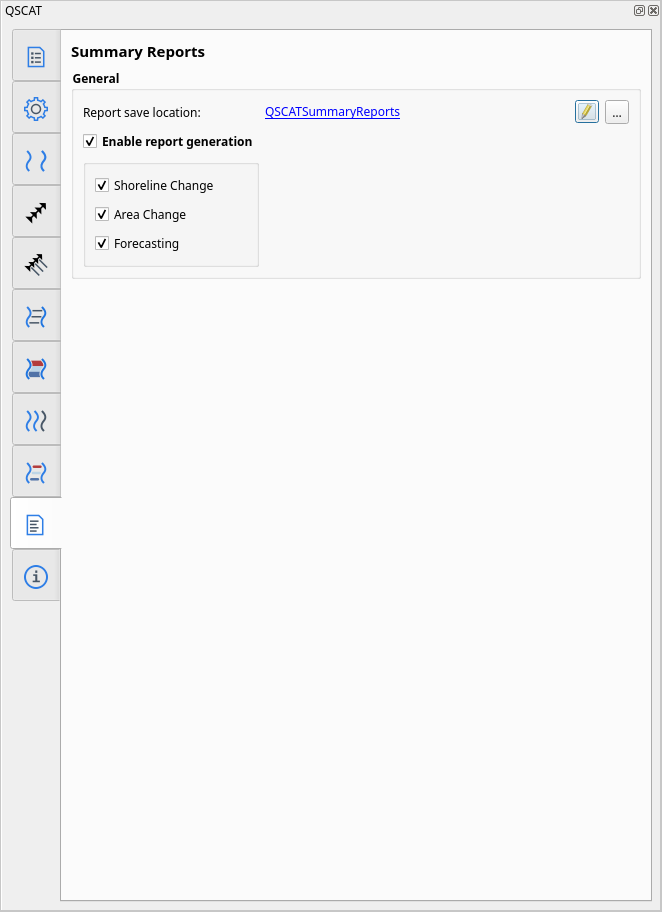
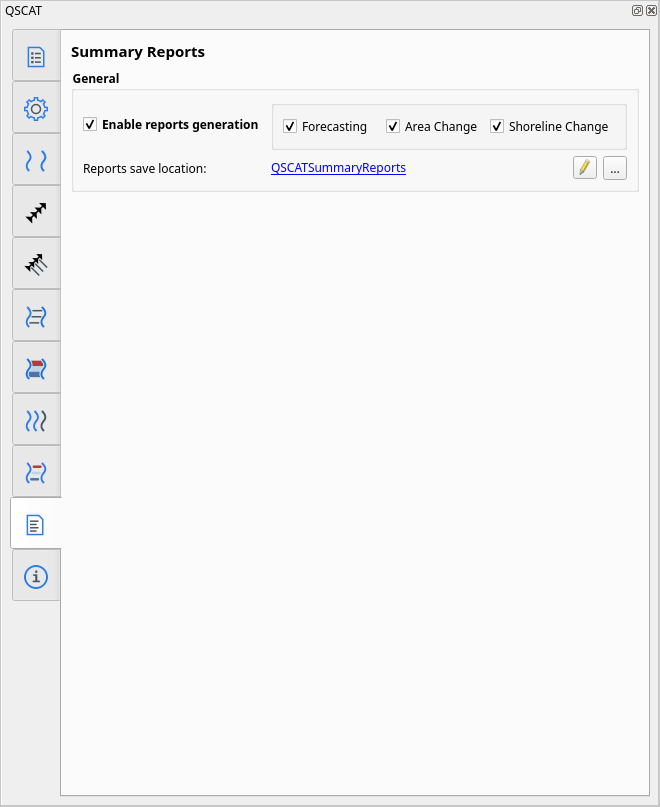
refactor(docs): improvements - format, naming, content

Changed region(s): [[0.0, 0.0, 0.9394, 0.7435], [0.9394, 0.0, 1.0, 0.031]]

diff --git a/docs/source/manual/tabs/summary_reports.rst b/docs/source/manual/tabs/summary_reports.rst
@@ -10,7 +10,9 @@ Tab: Summary Reports
       :local:
       :depth: 2
 
-.. _figure_tab_summary_reports:
+The :guilabel:`Summary Reports Tab` allows the user to configure the save location of the summary reports and enable or disable the generation of summary reports. The summary reports are text files that contain the base information and the summary of results of the shoreline change, area change, and forecasting. The summary reports are saved in the folder specified by the user.
+
+.. _figure_tab_summary_report:
 
 .. figure:: /img/summary_reports/summary-reports-tab.png
    :align: center
@@ -20,5 +22,150 @@ Tab: Summary Reports
 General
 =======
 
+Reports save location
+---------------------
 
--
+Allows users to choose the folder in which to save the summary reports. Defaults to ``QSCATSummaryReports`` under user home directory. Additionally, each results type (shoreline change, area change, and forecasting) will be saved inside another folder within the specified folder. The filename of the report will be in the format ``qscat_<version>_<result_type>_<datetime>.txt``, where the datetime is in the format ``MM-DD-YY HH-MM-SS``. The following table shows the folder structure and the filename format of the summary reports.
+
+.. list-table:: 
+   :header-rows: 1
+   :widths: 20 30 50
+
+   * - Result
+     - Folder
+     - File name
+   * - Shoreline Change
+     - ``shoreline_change``
+     - ``qscat_<version>_shoreline_change_<datetime>.txt``
+   * - Area Change
+     - ``area_change``
+     - ``qscat_<version>_area_change_<datetime>.txt``
+   * - Forecasting
+     - ``forecasting``
+     - ``qscat_<version>_forecasting_<datetime>.txt``
+
+
+Example of the folder structure and file name
+.............................................
+
+.. code-block::
+
+   ── QSCATSummaryReports/
+      ├── shoreline_change/
+      │   ├── qscat_0.3.1_shoreline_change_04-29-24_15-15-28.txt
+      │   ├── qscat_0.3.1_shoreline_change_05-01-24_10-30-12.txt
+      │   └── ...
+      │
+      ├── area_change/
+      │   ├── qscat_0.3.1_area_change_04-30-24_20-45-33.txt
+      │   ├── qscat_0.3.1_area_change_05-02-24_14-25-46.txt
+      │   └── ...
+      │
+      └── forecasting/
+          ├── qscat_0.3.1_forecasting_04-28-24_18-55-21.txt
+          ├── qscat_0.3.1_forecasting_05-03-24_09-10-58.txt
+          └── ...
+
+Enable reports generation
+-------------------------
+
+A convenient way to enable or disable the generation of summary reports. Users can also enable or disable the generation of individual reports: Shoreline Change, Area Change, and Forecasting.
+
+
+Content of summary reports
+==========================
+
+Base information
+----------------
+
+Regardless of the type of result (shoreline change, area change, or forecasting), the base information is always written at the top of the text file. The base information contains standard details such as general info, projection, metadata, and system details. The following are information that are included in the base information:
+
+**Project details**
+
+- **Time generated:** date and time the report was generated (format ``MM-DD-YYYY HH-MM-SS``).
+- **Project location:** folder location of the QGIS project :file:`.qgz`.
+- **Projection:** CRS auth id of the QGIS project (e.g ``EPSG:32651``).
+
+**Metadata**
+
+- **Author full name:** metadata of the QGIS project.
+- **Author affiliation:** metadata of the QGIS project.
+- **Author email:** metadata of the QGIS project.
+
+**System details**
+
+- **OS version:** operating system name and version.
+- **QGIS version:** QGIS version and name.
+- **QSCAT version:** QSCAT version.
+
+Shoreline Change
+----------------
+
+Input parameters
+................
+
+**Shorelines Tab**
+
+- **Layer:** layer name of the selected shoreline.
+- **Default data uncertainty:** default data uncertainty value.
+- **Date field:** field name of the selected shoreline date.
+ 
+Summary of results
+..................
+
+Area Change
+-----------
+
+Input parameters
+................
+
+- **NSM layer:** layer name of the selected stat NSM layer.
+- **Polygon:** layer name of the selected area's polygon layer.
+  
+Summary of results
+..................
+
+**Area change**
+
+Erosion, accretion, stable:
+
+* Total areas
+* (%) of areas
+* No. of areas
+* (%) of no. areas
+* Avg. value
+* Min. value
+* Max. value
+
+**Shoreline**
+
+Erosion, accretion, stable:
+
+* Length of shoreline
+* (%) of length
+* No. of shoreline
+* (%) of number of shoreline
+* Avg. value
+* Min. value
+* Max. value
+
+Forecasting
+-----------
+
+Input parameters
+................
+
+Summary of results
+..................
+
+**Forecast points**
+
+*Content for this section will be added soon.*
+
+**Forecast line**
+
+*Content for this section will be added soon.*
+
+**Forecast area**
+
+*Content for this section will be added soon.*

diff --git a/docs/source/manual/introduction/installation.rst b/docs/source/manual/introduction/installation.rst
@@ -1,0 +1,36 @@
+.. _intro_installation:
+
+************
+Installation
+************
+
+The QSCAT plugin can be installed in two ways: by using the QGIS plugin repository (recommended) or by installing from a ZIP file. The steps to install the plugin are similar regardless of the operating system (Windows, Linux, and Mac OS). The following sections provide detailed instructions on how to install the plugin using both methods.
+
+.. only:: html
+
+   .. contents::
+      :local:
+      :depth: 2
+
+
+By QGIS Plugin Repository
+=========================
+
+1. Open ``QGIS``, :menuselection:`Plugins --> Manage and Install Plugins... --> Settings`.
+2. Check :guilabel:`Show also experimental plugins`. Go to :guilabel:`All`.
+3. Search (or type) ``QGIS Shoreline Change Analysis Tool``.
+4. Click :guilabel:`Install Plugin`.
+5. Go to :guilabel:`Installed`. The ``QGIS Shoreline Change Analysis Tool`` should now appear in the list if the plugin is installed succesfuly. Check the checkbox to enable the plugin (if not checked).
+6. Once enabled, the |qscat| icon will appear in the toolbar.
+
+By Install from ZIP
+====================
+
+1. Download the latest ``qscat.zip`` file from the following link: https://github.com/qscat/qscat/releases/latest. Or ``qscat-x.y-z.zip`` from https://plugins.qgis.org/plugins/qscat/.
+2. Open ``QGIS``, :menuselection:`Plugins --> Manage and Install Plugins... --> Install from ZIP`.
+3. Click :guilabel:`...`, find the downloaded ``qscat.zip`` (or ``qscat-x.y-z.zip``) then click :guilabel:`Install Plugin`. Finally, proceed with the warning if asked.
+4. Go to :guilabel:`Installed`. The ``QGIS Shoreline Change Analysis Tool`` should now appear in the list if the plugin is installed succesfuly. Check the checkbox to enable the plugin (if not checked).
+5. Once enabled, the |qscat| icon will appear in the toolbar.
+
+.. |qscat| image:: /img/qscat.png
+   :width: 1.3em

diff --git a/docs/source/manual/introduction/requirements.rst b/docs/source/manual/introduction/requirements.rst
@@ -1,0 +1,20 @@
+.. _intro_requirements:
+
+************
+Requirements
+************
+
+To use QSCAT, you need QGIS, which is a free and open-source Geographic Information System (GIS) software. You can download different versions of QGIS from the `QGIS website <https://qgis.org/en/site/forusers/download.html>`_ (see for the versions below). Ensure that your system meets the system requirements of QGIS: a standard PC with at least 4GB of RAM running on Windows, Linux or Mac OS X.
+
+Since QSCAT is just a plugin of QGIS (not standalone software), if you meet the system requirements of QGIS, QSCAT should run fine on your system.
+
+QGIS versions
+-------------
+
+Currently, QSCAT is being tested on the following versions of QGIS:
+
+* **QGIS 3.22.6**: Latest stable version of QGIS as of the time we started the development of QSCAT. 
+* **QGIS 3.34.5**: Latest stable version of QGIS as of the time: April 1, 2024.
+* **QGIS 3.36.2**: Latest development version of QGIS as of the time: April 1, 2024.
+
+Although QSCAT will probably run on any version of QGIS version 3 and above, we recommend using the versions listed above to avoid any compatibility issues.

diff --git a/docs/source/manual/tabs/shoreline_change.rst b/docs/source/manual/tabs/shoreline_change.rst
@@ -39,11 +39,6 @@ Clip transects
 
 By default, the transects are not clipped to the farthest shoreline extent. However, you have the power to choose whether to clip the shorelines by checking this box. The clipping has no effects on the statistics, but it will make seeing statistics' transects easier.
 
-Summary reports location
-------------------------
-
-Allows users to choose the folder in which to save the summary reports. For more information on the summary reports, see :ref:`summary_report`.
-
 .. _tab_shoreline_change_tsi:
 
 Transect-Shoreline Intersections

diff --git a/docs/source/manual/index.rst b/docs/source/manual/index.rst
@@ -9,9 +9,9 @@ User Manual
    :caption: User Manual
 
    introduction/overview
-   introduction/system_requirements
    introduction/features
-   introduction/installation_steps
+   introduction/requirements
+   introduction/installation
    plugin/required_inputs
    tabs/project_settings
    tabs/automator
@@ -25,7 +25,6 @@ User Manual
    tabs/summary_reports
    tabs/about
    others/sample_workflow
-   others/summary_report
    others/help_and_support
    others/contributors
    others/appendices/index

diff --git a/docs/source/manual/tabs/shorelines.rst b/docs/source/manual/tabs/shorelines.rst
@@ -10,7 +10,7 @@ Tab: Shorelines
       :local:
       :depth: 2
 
-The :menuselection:`Shorelines Tab` allows the user to select and load the shorelines to be used for the analysis.
+The :guilabel:`Shorelines Tab` allows the user to select and load the shorelines to be used for the analysis.
 
 .. _figure_tab_shorelines:
 

diff --git a/docs/source/manual/tabs/baseline.rst b/docs/source/manual/tabs/baseline.rst
@@ -10,7 +10,7 @@ Tab: Baseline
       :local:
       :depth: 2
 
-The :guilabel:`Baseline tab` allows users to select the baseline layer, placement, and orientation.
+The :guilabel:`Baseline Tab` allows users to select the baseline layer, placement, and orientation.
 
 .. _figure_tab_baseline:
 

diff --git a/docs/source/manual/introduction/features.rst b/docs/source/manual/introduction/features.rst
@@ -75,8 +75,8 @@ Plugin offer tools that automate manual repetitive tasks.
 
 *screenshot figure of automated vectors*
 
-Data Visualization
-------------------
+Visualization
+-------------
 
 Shoreline and area change, forecasting results are visualized in the map for easy interpretation.
 
